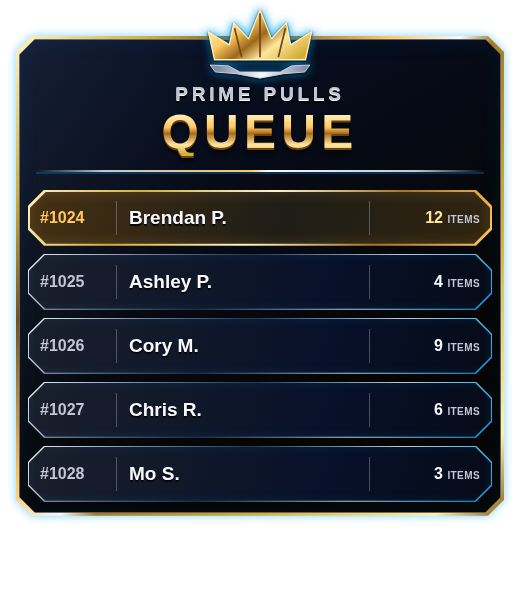
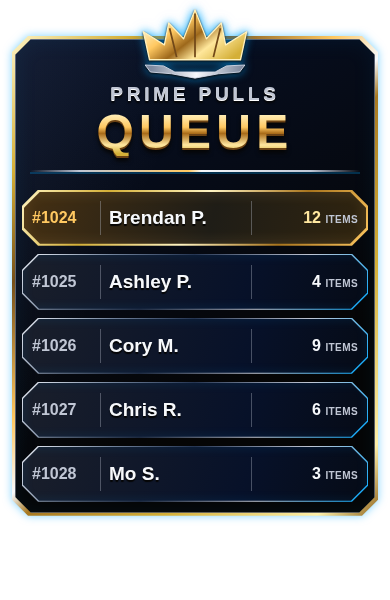
Tighten queue HUD width and column spacing by 25 percent

diff --git a/app/styles.css b/app/styles.css
@@ -30,8 +30,8 @@ button.danger { border-color: var(--danger); color: var(--danger); }
 /* The whole OBS document stays transparent, including around the tilted frame. */
 html:has(.overlay-body), body:has(.overlay-body) { background: transparent; }
 .overlay-body {
-  width: min(100%, 520px);
-  padding: 36px 16px 18px;
+  width: min(100%, 390px);
+  padding: 36px 12px 18px;
   background: transparent;
   color: #f7f9fc;
   font-variant-numeric: tabular-nums;
@@ -40,7 +40,7 @@ html:has(.overlay-body), body:has(.overlay-body) { background: transparent; }
 .queue-panel {
   position: relative;
   isolation: isolate;
-  padding: 0 12px 14px;
+  padding: 0 10px 14px;
   transform: perspective(1200px) rotateY(var(--queue-tilt, 12deg));
   /* On the left of the stream, the face points right toward the center.
      The left edge stays anchored as the queue grows and shrinks. */
@@ -114,10 +114,10 @@ html:has(.overlay-body), body:has(.overlay-body) { background: transparent; }
   position: relative;
   isolation: isolate;
   display: grid;
-  grid-template-columns: 76px minmax(0, 1fr) 110px;
+  grid-template-columns: 68px minmax(0, 1fr) 106px;
   align-items: center;
   height: 56px;
-  padding: 0 12px;
+  padding: 0 10px;
   clip-path: var(--queue-cut);
   background: linear-gradient(135deg, #eef2fa, #70819a 23%, #263653 43%, #c0c6d4 72%, #00a8ff);
 }
@@ -149,7 +149,7 @@ html:has(.overlay-body), body:has(.overlay-body) { background: transparent; }
 .queue-row.now .queue-number { color: #ffc861; }
 .queue-name {
   min-width: 0;
-  padding: 6px 12px;
+  padding: 6px 8px;
   border-inline: 1px solid rgba(192,198,212,.35);
   font-weight: 800;
   font-size: 19px;
@@ -158,7 +158,7 @@ html:has(.overlay-body), body:has(.overlay-body) { background: transparent; }
   text-overflow: ellipsis;
   text-shadow: 0 2px 1px #050505;
 }
-.queue-items { padding-left: 10px; text-align: right; font-weight: 800; font-size: 16px; white-space: nowrap; }
+.queue-items { padding-left: 6px; text-align: right; font-weight: 800; font-size: 16px; white-space: nowrap; }
 .queue-items span { font-size: 10px; letter-spacing: .04em; color: #c0c6d4; }
 .queue-row.now .queue-items { color: #ffe7a0; }
 .queue-empty { margin: 0; padding: 8px 6px; text-align: center; color: #c0c6d4; font-size: 12px; font-weight: 700; letter-spacing: .15em; }
@@ -176,7 +176,7 @@ html:has(.overlay-body), body:has(.overlay-body) { background: transparent; }
 }
 .queue-footer::before, .queue-footer::after { content: ''; height: 1px; width: 28px; background: #d4af37; }
 .queue-more-count { font-size: 18px; line-height: 1; color: #ffc861; }
-@media (max-width: 400px) {
+@media (max-width: 360px) {
   .overlay-body { padding: 32px 10px 14px; }
   .queue-panel { padding: 0 10px 12px; transform: perspective(1200px) rotateY(calc(var(--queue-tilt, 12deg) * .4)); }
   .queue-title { padding-bottom: 14px; }

diff --git a/tests/queue.spec.ts b/tests/queue.spec.ts
@@ -54,7 +54,7 @@ for (const count of [0, 1, 2, 5, 6, 17]) {
     expect(geometry.overflow).toBe(false);
     expect(geometry.bounds.left).toBeGreaterThanOrEqual(0);
     expect(geometry.bounds.top).toBeGreaterThanOrEqual(0);
-    expect(geometry.bounds.right).toBeLessThanOrEqual(520);
+    expect(geometry.bounds.right).toBeLessThanOrEqual(390);
     expect(geometry.bounds.bottom).toBeLessThanOrEqual(600);
     await page.screenshot({ path: testInfo.outputPath(`queue-${count}.png`), omitBackground: true });
     await page.setViewportSize({ width: 320, height: 600 });

diff --git a/playwright.config.ts b/playwright.config.ts
@@ -7,7 +7,7 @@ export default defineConfig({
   timeout: 30_000,
   use: {
     baseURL: 'http://127.0.0.1:3200',
-    viewport: { width: 520, height: 600 },
+    viewport: { width: 390, height: 600 },
     launchOptions: process.env.PLAYWRIGHT_CHROMIUM_EXECUTABLE_PATH
       ? { executablePath: process.env.PLAYWRIGHT_CHROMIUM_EXECUTABLE_PATH }
       : undefined,

diff --git a/README.md b/README.md
@@ -42,9 +42,11 @@ required. Tune the angle in the existing overlay URL:
 - `/overlay/queue?angle=18`: strongest supported perspective.
 
 Values are limited to 0–18°; invalid values use the default. At mobile widths
-up to 400px the angle is reduced to 40% of the chosen value for readability.
+up to 360px the angle is reduced to 40% of the chosen value for readability.
 The perspective origin follows the panel's vertical center as its height changes.
-Use a **520×600** OBS browser canvas to leave room for the crown, five rows, the
+The overlay is capped at 390px wide, 25% narrower than its original 520px layout,
+with tighter name/item spacing and the same desktop text sizes.
+Use a **390×600** OBS browser canvas to leave room for the crown, five rows, the
 optional overflow footer and blue edge light. The unused canvas is transparent.
 
 It displays order number, first name with optional last initial, and item quantity.
@@ -171,7 +173,7 @@ on GitHub: [1 order](docs/previews/one-order.png),
 and [left-side stream placement](docs/previews/left-hud-scene.png).
 The placement image uses a labeled stream-content placeholder, not a live stream.
 
-Preview descriptions at 520px canvas width:
+Preview descriptions at 390px canvas width:
 
 - **1 order:** metallic crown/header and a single gold-emphasized row; no footer.
 - **5 orders:** inward-angled metallic frame and five rows; only current/first is gold.
@@ -198,7 +200,7 @@ Preview descriptions at 520px canvas width:
    `/api/shopify/orders-paid`. **No Shopify webhook settings change is needed.**
 7. Keep the OBS Browser Source URL unchanged: **`/overlay/queue`**. The existing
    520×360 or 520×460 canvas can clip the taller metallic HUD; set the source to
-   **520×600** to fit the crown, all five rows, and the overflow footer. The unused canvas remains transparent; the graphic
+   **390×600** to fit the crown, all five rows, and the overflow footer. The unused canvas remains transparent; the graphic
    itself shrinks with the queue. No custom background CSS is needed.
 
 If rolling the app back to V1, leave the additive column in place. Do not remove
